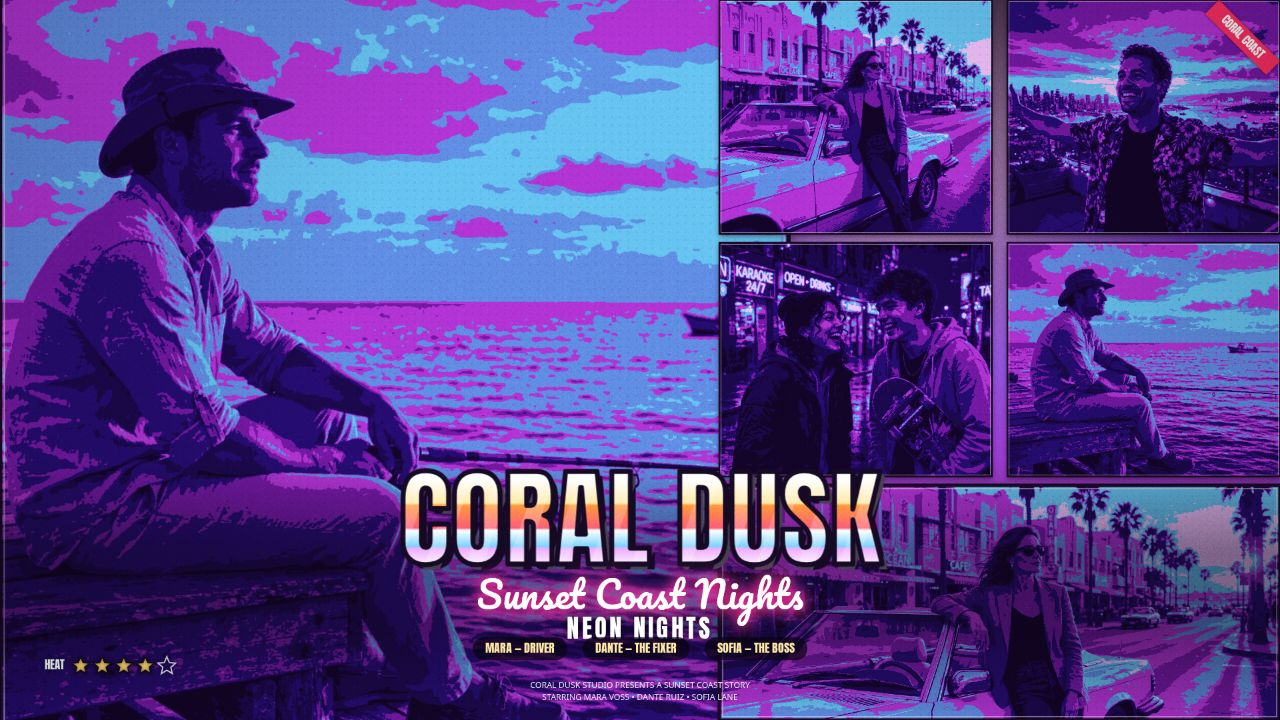
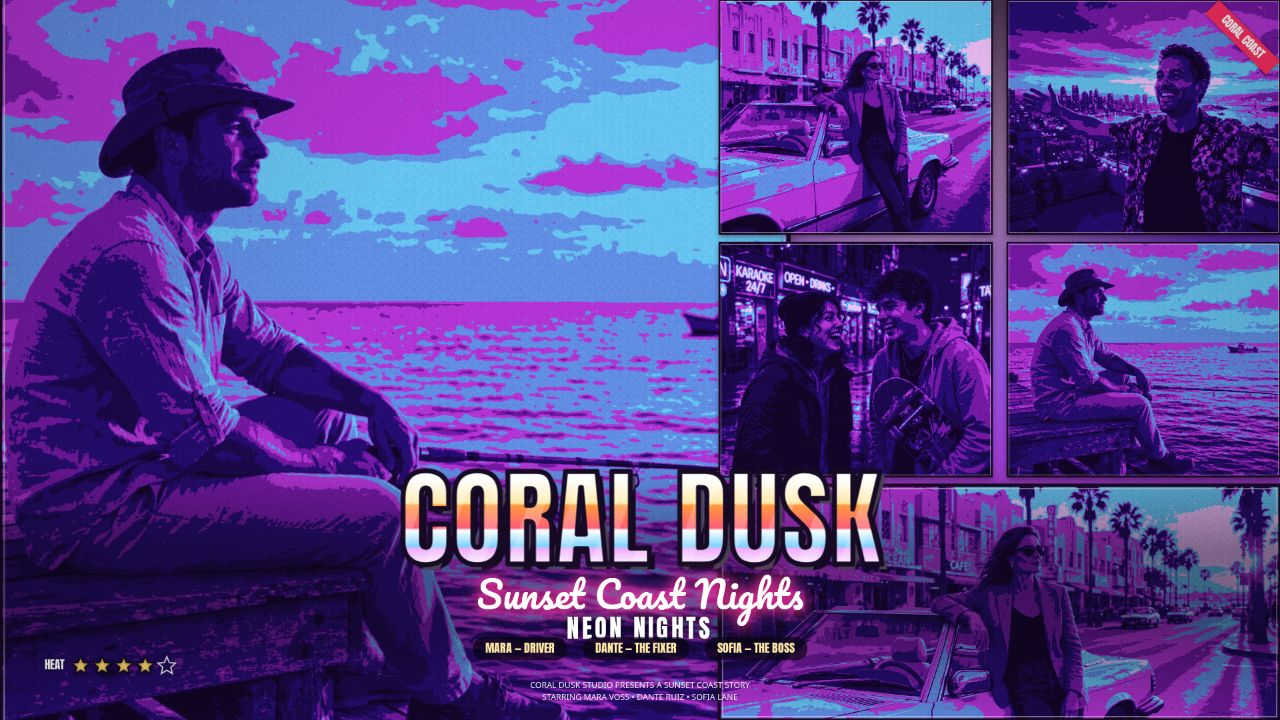
Coral Dusk Cover Studio: offline GTA-style cover art maker (6 layouts, 6 grades, chrome lettering, 4-size PNG export)

Changed region(s): [[0.7812, 0.0, 1.0, 0.3361]]

diff --git a/app/src/cover.js b/app/src/cover.js
@@ -265,23 +265,32 @@ function drawPanel(ctx, img, panelPx, crop, gradeId, opts) {
   }
 
   const pop = opts.popout && panelPx.hero ? 1.12 : 1;
-  const drawW = innerW * pop;
-  const drawH = innerH * pop;
+  // A popped card is 12% larger than its slot — but a slot flush with
+  // the canvas edge then pushes the card's edge content off the canvas:
+  // the rooftop hero's outstretched arm sat within 3% of the photo's
+  // edge, so the pop cropped it at the frame whichever way the card was
+  // nudged. Cap the pop so the card fits inside the canvas width
+  // instead: a full-width hero simply doesn't enlarge (its border and
+  // shadow still lift it), and both arms stay in frame. The nudge below
+  // remains as a fallback for rotated cards, which can still overhang
+  // an edge even at the capped size.
+  let cappedPop = pop;
+  if (cappedPop > 1 && opts.canvasW) {
+    cappedPop = Math.min(cappedPop, opts.canvasW / Math.max(1, innerW));
+  }
+  const drawW = innerW * cappedPop;
+  const drawH = innerH * cappedPop;
   ctx.save();
-  // A popped hero card is drawn 12% larger than its slot, centred on
-  // it — so a hero slot flush with the canvas edge pushes the card's
-  // edge content off the canvas: in the square Hero + 3 cover the
-  // rooftop hero's raised arm sat within 3% of the photo's left edge
-  // and the pop-out cropped it at the frame. No crop or focus point
-  // can save it (cover-fit already shows the photo's full width, and
-  // the pop always hides the outer ~5% of the card), so nudge the
-  // popped card back inside on the left instead: the arm lands fully
-  // in frame, the border still follows the popped image, and the
-  // right side bleeds off the canvas, which reads as a normal poster
-  // bleed. Only the left edge is clamped — the card is allowed to
-  // bleed right and bottom as before.
+  // A popped hero card is drawn larger than its slot, centred on it —
+  // so a hero slot flush with the canvas edge pushes the card's edge
+  // content off the canvas. The cap above already keeps a full-width
+  // card inside; this nudge only catches the leftover overhang of a
+  // rotated card: the arm lands fully in frame, the border still
+  // follows the popped image, and the right side bleeds off the canvas,
+  // which reads as a normal poster bleed. Only the left edge is
+  // clamped — the card is allowed to bleed right and bottom as before.
   let centreX = x + w / 2;
-  if (pop > 1) {
+  if (cappedPop > 1) {
     const overflowLeft = centreX - drawW / 2;
     if (overflowLeft < 0) centreX -= overflowLeft;
   }
@@ -473,7 +482,7 @@ export function drawCover(canvas, state, photoMap) {
     drawPanel(ctx, img, {
       x: panel.x * W, y: panel.y * H, w: panel.w * W, h: panel.h * H,
       rot: panel.rot, skew: panel.skew, hero: panel.hero, frame: panel.frame,
-    }, crop, state.grade, { halftone: state.halftone, ink: state.ink, popout: state.popout });
+    }, crop, state.grade, { halftone: state.halftone, ink: state.ink, popout: state.popout, canvasW: W });
   });
 
   // Warm wash over everything.

diff --git a/app/src/shots.js b/app/src/shots.js
@@ -37,6 +37,28 @@ export async function runShot(shot, query, api) {
     const first = SAMPLE_BY_NAME[query.get('photo')] ?? 's1';
     patch.panelPhotos[0] = first;
   }
+  if (query.get('crop')) {
+    // Per-photo focus/zoom for this shot only, e.g. crop=s2:0.39,0.42,1
+    // (photoId:cx,cy,zoom, ';'-separated). A crop is per photo, so it
+    // applies to every panel showing that photo in this shot. It cannot
+    // conjure content outside the photo: the rooftop sample's left arm
+    // already exits the photo's right edge, so no crop can show that
+    // hand — but shifting the window left puts the raised right hand
+    // whole in frame instead of clipping it at the panel's left edge.
+    const crops = {};
+    for (const id of SAMPLE_ORDER) crops[id] = { cx: 0.5, cy: 0.42, zoom: 1 };
+    for (const part of query.get('crop').split(';')) {
+      const [id, vals] = part.split(':');
+      if (!id || !vals) continue;
+      const [cx, cy, zoom] = vals.split(',').map(Number);
+      crops[id] = {
+        cx: Number.isFinite(cx) ? cx : 0.5,
+        cy: Number.isFinite(cy) ? cy : 0.42,
+        zoom: Number.isFinite(zoom) ? zoom : 1,
+      };
+    }
+    patch.crops = crops;
+  }
   if (shot === 'cover') {
     // Mark the scene before applying it, so the editor's preview render
     // never redraws over the cover canvas.

diff --git a/README.md b/README.md
@@ -41,8 +41,14 @@ sample photo is a file in `app/`.
   around every panel. The halftone is deliberately subtle so it reads
   as print texture, not a visible dot grid, and the ink border follows
   the hero pop-out exactly, so a lifted panel looks like a card. A
-  popped hero that would push edge content off the canvas is nudged
-  back inside on the left, so a raised arm stays in frame.
+  popped hero is capped so its card fits inside the canvas width
+  (a full-width hero simply doesn't enlarge), and any leftover
+  overhang is nudged back inside on the left, so a raised arm stays
+  in frame.
+- **Per-shot crops** — the screenshot scenes (`?shot=`) accept a
+  `crop` parameter (`crop=s2:0.39,0.42,1`) that sets a photo's focus
+  point and zoom for that scene only, so a sample whose gesture sits
+  near the photo's edge can be framed with the hand whole.
 - **Lettering** — a striped-chrome title with a 3D extrude (Anton,
   vendored under the SIL Open Font License), a neon script subtitle
   (Pacifico), an editable caption, and a movable title position.
